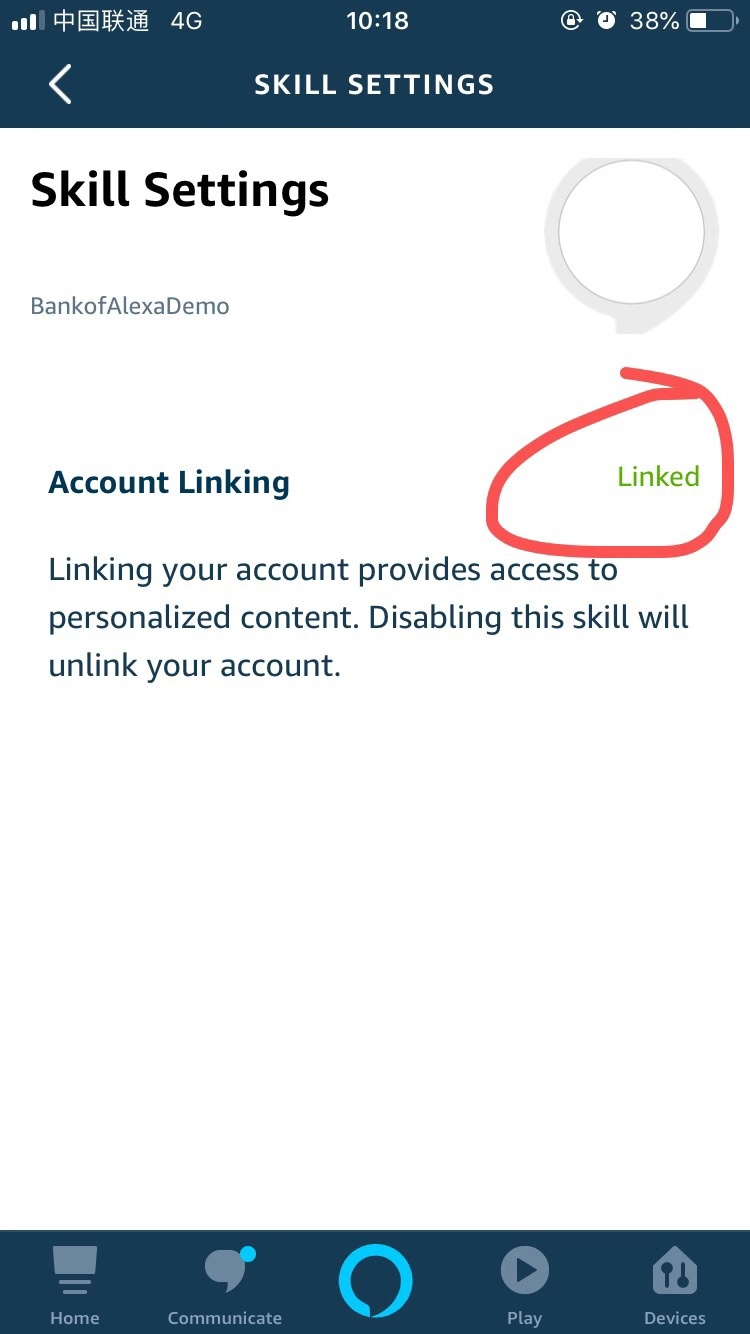
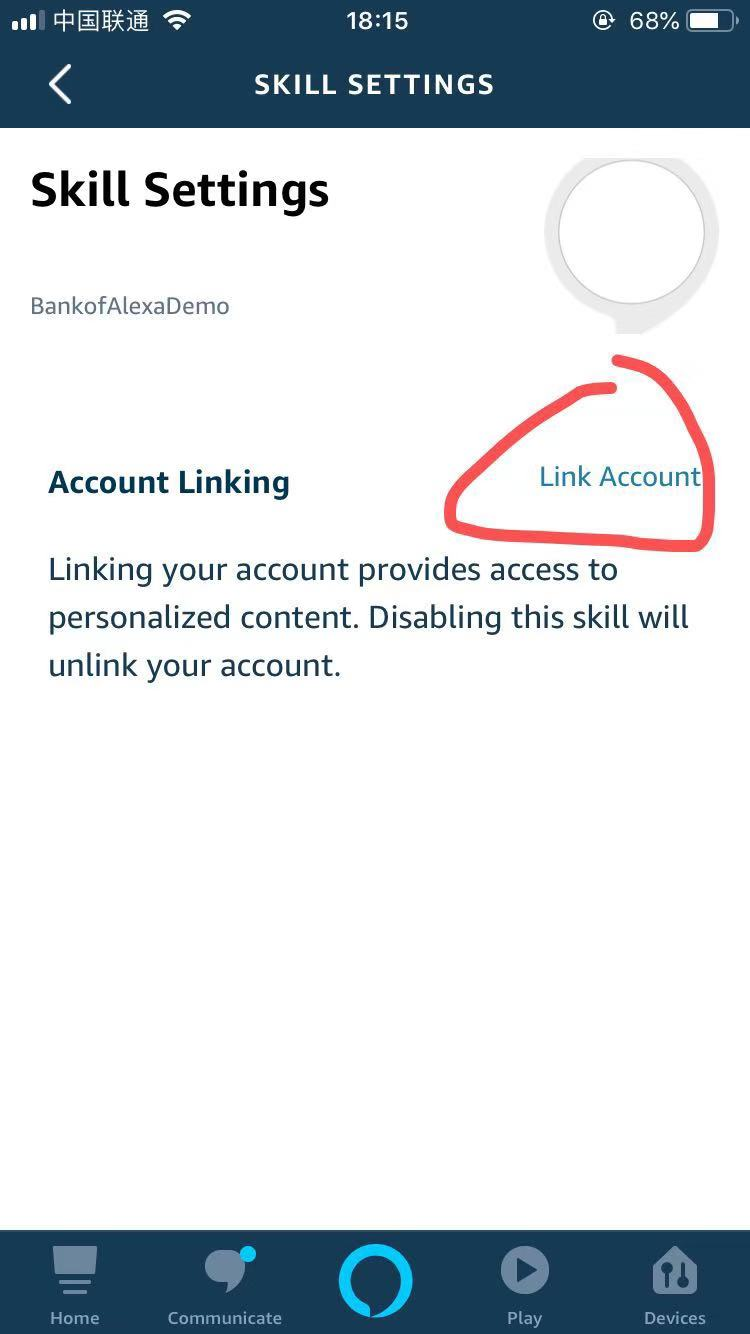
replace wrong pictures

diff --git a/README.md b/README.md
@@ -39,22 +39,19 @@ Alexa is Amazon’s cloud-based voice service available on tens of millions of d
 After the lab, you will be able to build a smart banking system skill that could be used on Alexa APP or any Echo devices. Talk to any Echo device and Say, “open personal banker” to start the skill. 
 
 ##	Pre-requisites
-1.	You need to bring a laptop. 
-The laptop you bring must allow you to access AWS console.
-
-2.	Please open an AWS account. 
+1.	Please open an AWS account. 
 Go to https://aws.amazon.com and follow this quick walkthrough 
 https://aws.amazon.com/premiumsupport/knowledge-center/create-and-activate-aws-account/  You need a valid credit card to set up your account. However, it will not be charged and we will provide AWS credit code in the workshop for your AWS service consumption.
 
-3.	Please create an Amazon Developer account. 
+2.	Please create an Amazon Developer account. 
 Go to the https://developer.amazon.com/ create an account for free.
 
-4.  **[IMPORTANT]Please download Alexa APP using global Apple Store accounts or Google play** . 
+3.  **[IMPORTANT]Please download Alexa APP using global Apple Store accounts or Google play** . 
 *	For Apple users, you won't be able to find the APP if you are using Chinese Apple store account. Do use global accounts.
 *	For google play users, you will need VPN to download the APP and change country setting to anything but China and stop GPS to enable the APP. If the country setting and GPS location is still China, you will meet timeout error whenever you open the APP. 
 ![](img/workshop/andriod-gps.jpeg)
 
-5. 	Relative codes could be found [here](https://github.com/lab798/aws-alexa-workshop-ask/tree/master/workshop)
+4. 	Relative codes could be found [here](https://github.com/lab798/aws-alexa-workshop-ask/tree/master/workshop)
 
 ##	Lab Steps
 
@@ -62,7 +59,7 @@ Note:
 
 *	**[IMPORTANT] Please use us-east-1 (virginia) for this lab**, as the cloudformation template that is used in Step 7 is located in us-east-1. Choosing other regions is ok if you skip Step 7.
 
-*	Step 1 and step 2 is the same, the only difference is creating the intents manually or not. Choose your preferred one is ok. But if you are interested, you could experience both steps.
+*	Step 1 and step 2's function is the same, the only difference is whether to create the intents manually or not. Choose your preferred one is ok. But if you are interested, you could experience both steps and compare the difference.
 
 *	[click here to download the code files](https://github.com/lab798/aws-alexa-workshop-ask/tree/master/workshop).
 
@@ -81,6 +78,7 @@ Note:
 ![](img/workshop/create-lex-bot.png)
 
 8.	Click Create
+
 9.	We will start by creating an intent, which represents an action that the user wants to perform. For example, we’re going to create three intents in this lab for different actions a user can perform: Get Account Details; Get Loan Details; Get Loan Products. **Click the “Create Intent” button**.
 
 10.	In the window that pops-up click the “Create new intent” link.
@@ -133,7 +131,6 @@ Let’s add 2 more intents and one more slot type.
 
 ![](img/workshop/get-loan-product.png)
 
-
 29.	**Click ‘Save Intent’**。 Now we’ll add a final intent to allow users to get more information on the loan products that we have. 
 30.	Click the blue “+” sign next to “Intents” on the left hand side of the page, then click “Create new intent”. 
 31.	Set the name of the intent to “GetLoanProducts” then click ‘Add’
@@ -148,10 +145,10 @@ The “More loan info” utterance will be used as a follow-up after a user has 
 34.	Click the blue “+” button to the right of the Slots information to add this slot to the intent
 35.	Click ‘Save Intent’
 36.	Click Build, and click Build again when prompted for confirmation. 
+
 Our bot is almost ready … all it needs now is a smart backend.
  
 ###	2 Use Lex Import Function to Create a Lex Bot without Manually 
-###	Creating Intents
 You don't need to do this section if you have already finished Step 1. The only difference is manually or automatically.
 
 1.	Click on Action.
@@ -160,14 +157,15 @@ You don't need to do this section if you have already finished Step 1. The only 
 2.	Click on Import. 
  ![](img/workshop/import.png) 
 
-3.	Choose the zip file. You need to download the file [lex-import-personal-banker.json.zip](https://github.com/lab798/aws-alexa-workshop-ask/tree/master/workshop/lex-import-personal-banker.json.zip) 
+3.	Choose the zip file. You need to download the file [lex-import-personal-banker.json.zip](./workshop/lex-import-personal-banker.json.zip) 
 4.	Click Import. 
 5.	Click Overwrite and Continue if you are not using these slot type.
 ![](img/workshop/import-bot.png) 
 
 6.	Click on the bot you just build.
 7.	Click on build.
-8.	The build process takes approximately a minute. Once complete, you can ask your bot a question as a way to test it. For example, you could type “what is my checking balance?” in the chat window. At this stage since we have not added in the backend Lambda function, the response will be that the bot is ready for fulfillment. 
+8.	The build process takes approximately a minute. Once complete, you can ask your bot a question as a way to test it. For example, you could type “what is my checking balance?” in the chat window. At this stage since we have not added in the backend Lambda function, the response will be that the bot is ready for fulfillment.
+
 9.	Then go to Section 3 Create a Lambda function to continue.
 
 
@@ -189,7 +187,7 @@ Here we will create a Lambda function that has some Python code to detect the in
 8.	Scroll down to the integrated Coud9 editor on the Lambda console.
 ![](img/workshop/function-code.png)
 
-9.	Download the lambda function code lex-lambda-personal-banker.py. Copy and paste the code into the inline editor (while making sure to overwrite/delete any template code that is already in the code box). Take a few minutes to review the code. Please note if you named your intents differently, you will have to update the dispatch method accordingly.
+9.	Download the lambda function code [lex-lambda-personal-banker.py](./workshop/lex-lambda-personal-banker.py). Copy and paste the code into the inline editor (while making sure to overwrite/delete any template code that is already in the code box). Take a few minutes to review the code. Please note if you named your intents differently, you will have to update the dispatch method accordingly.
 
 10.	We are not going to configure any trigger now, so click ‘Save’ on the top right hand corner of the page. You should see a message like this.
 ![](img/workshop/congratulations.png) 
@@ -280,6 +278,9 @@ In this lab, you will create a web interface that can be integrated with your Le
 
 5.	Unzip the downloaded file and you will get the .json file. This will be used for Alexa Skill later. You can also export it as Lex format. The exported file can be used to replicate the same bot in another account.
 
+>Note: You could use https://jsonformatter.curiousconcept.com/ to convert the file to standard indented json 
+>if the file's original indents is not perfect
+
 ###	9 Import Lex Intents to Alexa Voice Interface 
 
 1.	Go to the Amazon Developer Portal https://developer.amazon.com . In the top-right corner of the screen, click the "Sign In" button. (If you don't already have an account, you will be able to create a new one for free. Note it's not the same account for amazon.com) 
@@ -296,13 +297,14 @@ In this lab, you will create a web interface that can be integrated with your Le
 5.	Select the Custom model button to add it to your skill, and select the Create Skill button at the top right.
 ![](img/workshop/custom-skill.png) 
 
-6.	You can choose to build the Interaction Model for your skill by adding intents, slots, etc, manully, which we have already done in Lex. So we are going to re-use our Lex intents, slots. 
+6.	You can choose to build the Interaction Model for your skill by adding intents, slots, etc, manully, which we have already done in Lex. So we are going to re-use our Lex intents, slots. **Choose 'Start from scratch'**
 
 7.	On the left hand navigation panel, select the JSON Editor tab under Interaction Model. In the textfield provided, replace code line 5 to 23 with the code in the zip file exported from Lex. Follow the instruction below.
 *	a.	Select code line 5 to 23, delete it.
 ![](img/workshop/json-editor.png)
 
 *	b.	Open the .zip file you export from Lex in Visual Studio or any other text edit file. (If you find it is hard to follow, replace the entire code in the textfield provided with alexa-developer-console-personal-banker.json. Then you can skip step c, d, e, and jump to step 8.)
+
 *	c.	Select the highlighted part below. Copy it. 
 ![](img/workshop/9-7-c.png) 
 
@@ -381,18 +383,18 @@ The rest of the information could be found in cognito user pool – app integrat
 ![](img/workshop/alexa-app-skills.jpeg)
 
 
-11. Choose your skill and enable it (if it’s already enabled, you may need to re-enable it in case it doesn't work) . 
+11. Choose your skill and **enable it to use** (if it’s already enabled, you may need to re-enable it in case it doesn't work) . 
 
 12. Click SETTINGS.   
 ![](img/workshop/alexa-skill-setting.jpeg)
 
-13. choose account linking. Note, in your page, it should show in blue font 'linking'.
+13. choose account linking
 ![](img/workshop/linking-account-button.jpeg)
 
 14.	In the new page, input your username and password.
 ![](img/workshop/cognito-login-in.png)
 
-15. You will see that after login in, the account has been succefully linked.  You may revise your codes now to change all hard-code account balances to query from DynamoDB first. DynamoDB maintains the mapping relationship of cognito identityID and account balance or other information for you to add. We will skip this part.
+15. You will see that after login in, the account has been successfully linked.  You may revise your codes now to change all hard-code account balances to query from DynamoDB first. DynamoDB maintains the mapping relationship of cognito identityID and account balance or other information for you to add. We will skip this part.
 ![](img/workshop/account-linking-success.png)
 
 ###	Optional Challenge – Add SMS Notification to Lex 
